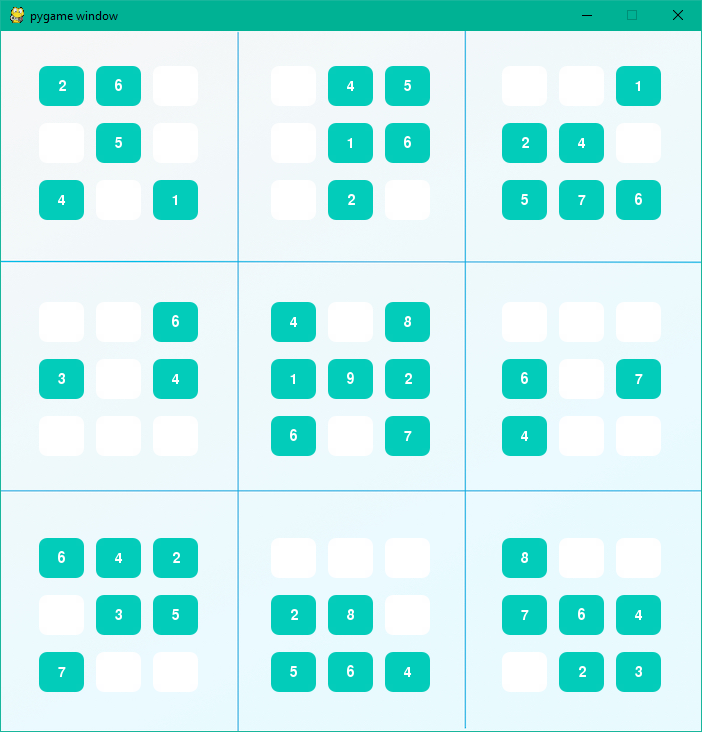
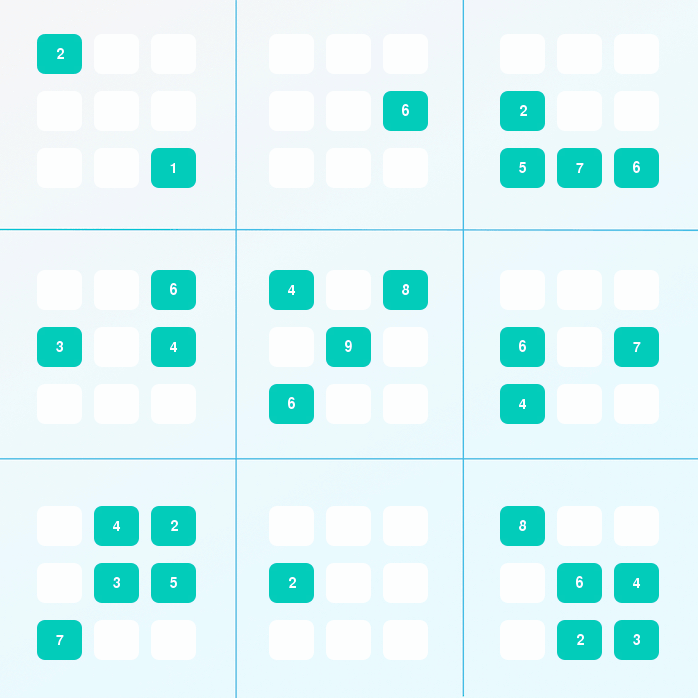
add: new ai for robotics project. Also included new static and animated images.

diff --git a/js/custom.js b/js/custom.js
@@ -42,17 +42,18 @@ $(document).ready(function() {
     }, function(){});
     
     $(".imgAnimate").each(function () {
-  
         $(this).hover(
           function()
-          {
-              var originalSrc = $(this).getElementsByClassName("image")[0].children[0].attr("src");
-              $(this).getElementsByClassName("image")[0].children[0].attr("src", originalSrc.replace(staticGifSuffix, gifSuffix));
+          { 
+              var originalSrc = $(this)[0].getElementsByClassName("image")[0].children[0].attributes.src.value;
+              console.log(originalSrc.value);
+              $(this)[0].getElementsByClassName("image")[0].children[0].attributes.src.value = originalSrc.replace(staticGifSuffix, gifSuffix);
           },
           function()
           {
-              var originalSrc = $(this).getElementsByClassName("image")[0].children[0].attr("src");
-              $(this).getElementsByClassName("image")[0].children[0].attr("src", originalSrc.replace(gifSuffix, staticGifSuffix));  
+              var originalSrc = $(this)[0].getElementsByClassName("image")[0].children[0].attributes.src.value;
+              console.log(originalSrc.value);
+              $(this)[0].getElementsByClassName("image")[0].children[0].attributes.src.value = originalSrc.replace(gifSuffix, staticGifSuffix);  
           }
         );
   

diff --git a/_includes/theme-projects-builtin-1.html b/_includes/theme-projects-builtin-1.html
@@ -1,6 +1,6 @@
 <div style="padding-top: 20px" class="ui container ">
   <div class="ui stackable centered four cards">
-      {% assign project_featured = site.pages | where: "type", "project" | group_by: "featured" | sort: "date" | reverse %}
+      {% assign project_featured = site.pages | where: "type", "project" | group_by: "featured" | sort: "date" %}
       {% for pages in project_featured %}
           {% assign featuredDateSorted = pages.items | sort: "date" | reverse %}
           {% for page in featuredDateSorted %}

diff --git a/projects/project-ai-for-robotics.md b/projects/project-ai-for-robotics.md
@@ -1,0 +1,53 @@
+---
+layout: project
+type: project
+image: images/ai-robotics/planning-static.png
+title: AI for robotics projects
+permalink: projects/ai-robotics
+date: 2019
+featured: true
+labels:
+  - Computer Vision
+  - Perception
+  - Planning
+  - Control
+summary: A series of projects designing the subsystems of an autonomous vehicle. These are perception (computer vision, sensor fusion and localization), planning (route planning, prediction, behavior planning, trajectory generation) and control (PID)
+---
+## Computer vision
+
+<div class="ui small rounded images">
+  <img class="ui image zoom" src="../images/classic-ai/sudoku-terminal.png">
+  <img class="ui image zoom" src="../images/classic-ai/sudoku-pyg.png">
+</div>
+
+<p class="pjustify">In this initial project, I built a simple AI using Constraint Propagation and Search to solve Sudoku puzzles. Contraint propagation strategies are extended to solve Diagonal Sudokus, and implement advanced Sudoku strategies such as the Naked Twins strategy. The sytstem prints the Sudoku solved on the terminal prompt and when the pygame dependencies are satified will show in a user interface how the solver fills the gaps in each new iteration.</p>
+
+<p class="pjustify">Source: <a class="hlink" href="https://github.com/juandarr/Sudoku-agent"><i class="large github icon"></i>Sudoku agent.</a></p>
+
+## Sensor fusion and localization
+
+<img class="ui medium right floated rounded image chime zoom medium-amp1_3" src="../images/classic-ai/isolated-agent.jpeg">
+
+<p class="pjustify">This project involves the implementation of a game playing environment and an agent that will try to maximize its probability to win while minimizing the probability of the oponent to win in an special format of the game isolation. Isolation is a game where an agent wins when the opponent has no more free space around it while the agent is free to move in at least one direction. In this format only `L` shaped movements are allowed. The main algorithm used in the adversarial tree search is `minimax`. `Minimax` is optimized with add-ons such as an `heuristic` score, `iterative deepening` and the addition of `alpha-beta prunning`.</p>
+
+<p class="pjustify">Source: <a class="hlink" href="https://github.com/juandarr/Adversarial-game-isolation"><i class="large github icon"></i>Adversarial game isolation.</a></p>
+
+## Planning
+
+<img class="ui medium right floated rounded image chime zoom medium-amp1_3 h-img" src="../images/classic-ai/progression.png">
+
+<p class="pjustify">The planner consists in a computer program that is able to reach new, logical conclusions from a given set of initial facts. In this case an airplane is located in an initial airport, and the planner is expected to take from its initial point to a `goal`, in the form of a destination airport. A set of operations are allowed. The main tools implemented to design the intelligent planner are propositional logic, search algorithms such as `A*`, BFS, DPS and axioms.</p>
+
+<p class="pjustify">Source: <a class="hlink" href="https://github.com/juandarr/Planning-search"><i class="large github icon"></i>Planning search.</a></p>
+
+## Control
+
+<img class="ui medium right floated rounded image chime zoom medium-amp1_3 h-img" src="../images/classic-ai/asl-recognizer.png">
+
+<p class="pjustify">This project explored the use of probabilistic inferential models to calculate the probability of certain events ocurring. In particular we use Hidden Markov Models to recognize American sign language given a sequence of movements, intermediate states are unobserved and a previous knowledge of expected sequences (but not of their probabilities). This final project is part of the section covering `bayesian networks`, `conditional probability` and `Bayes' rule`.</p>
+
+<p class="pjustify">Source: <a class="hlink" href="https://github.com/juandarr/Sign-language-recognizer"><i class="large github icon"></i>Sign language recognizer.</a></p>
+
+## Self driving car
+
+In progress...

diff --git a/projects/project-deep-learning.md b/projects/project-deep-learning.md
@@ -1,7 +1,7 @@
 ---
 layout: project
 type: project
-image: images/classic-ai/sudoku-static.png
+image: images/deep-learning/deep-static.png
 title: Deep learning projects
 permalink: projects/deep-learning
 date: 2018
